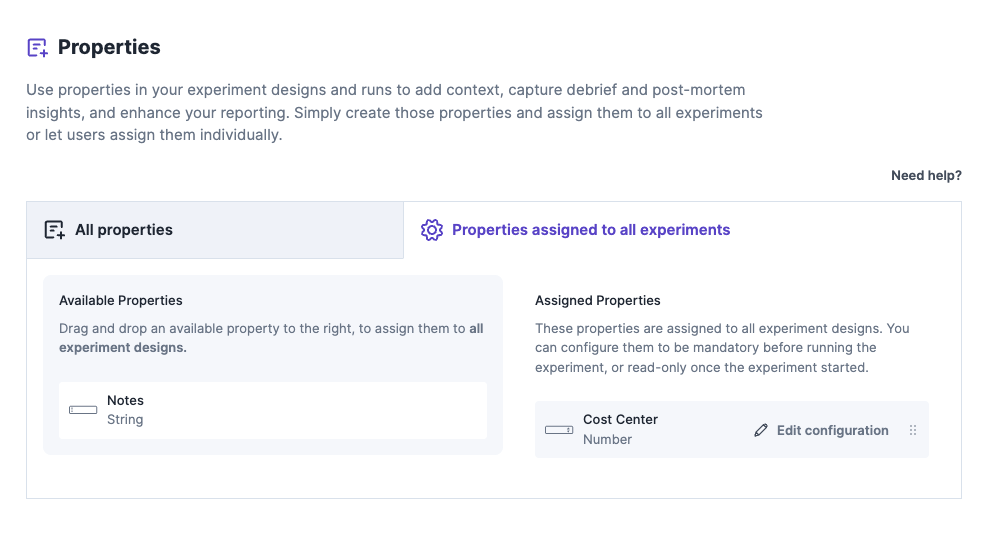
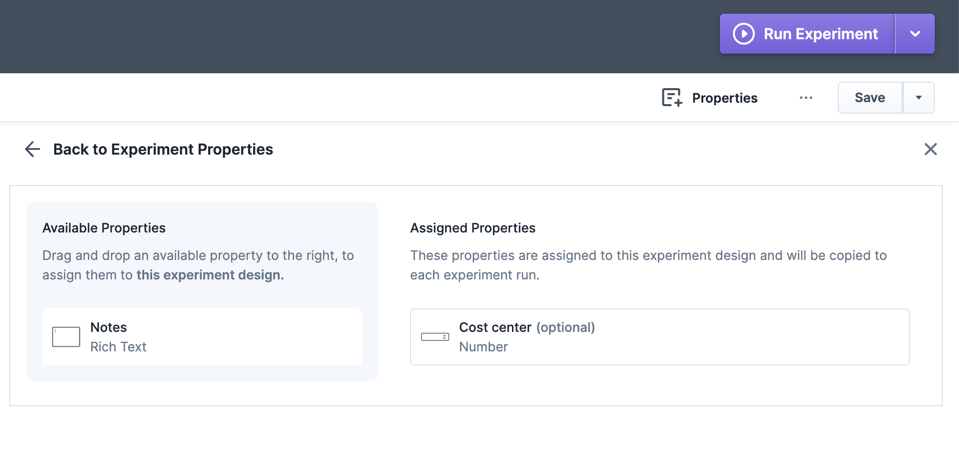
fix: Splitting up docs for properties into managing and using

diff --git a/use-steadybit/experiments/properties/README.md b/use-steadybit/experiments/properties/README.md
@@ -1,97 +1,63 @@
 # Properties
 
-Properties are key-value pairs that can be used to add additional information to your experiments and executions. They can be used to store metadata about the
-experiment, such as the experiment's purpose, the team responsible for it, the outcome or just a note of a specific execution or any other relevant information.
+Properties are key-value pairs that can be used to add additional information to your experiments and runs. They can be used to store metadata about the
+experiment, such as the experiment's purpose, the team responsible for it, the outcome, or just a note of a specific run or any other relevant information.
 
-Properties consist of three concepts:
-
-- Property definitions: The administrator can define, which properties are available in the Steadybit platform. These definitions can be assigned to experiments
-  and executions.
-- Property associations: Associations define the relationship between a property definition and an experiment. They define where the property is visible and
-  editable.
-    - Administrators can assign properties to each experiment in your Steadybit tenant and even mark it as a required property.
-    - Users can assign properties to a single experiments or a single execution they are allowed to edit. This allows users to add additional information to the
-      experiment.
-- Property values: The actual values of the properties that are saved as part of an experiment design and copied to each experiment execution. These values can
-  be updated after the experiment has been run if the association allows so.
+In general, a user can only assign properties to an experiment design or run that have been [defined by an administrator](../../../install-and-configure/manage-properties/README.md#manage-property-definitions).
+Once you - or your administrator - has assigned the property, you can capture values per experiment design or experiment run.
 
 ## Examples
 
-- Adding a note to a single experiment execution
-    - Your administrator defines a property definition called `note` with the datatype `string`.
-    - You can add the property `note` to a single experiment execution you are allowed to edit and fill in a value like "This experiment was great!".
+- Adding a note to a single experiment run
+    - Your administrator has defined a property definition called `note` with the datatype `rich text`.
+    - You can add the property `note` to a single experiment run, you are allowed to edit, and fill out a Markdown value like "This experiment was *really* great!".
 - Adding a mandatory cost center field to each experiment
-    - Your administrator defines a property definition called `costCenter` with the datatype `integer`.
-    - Your administrator assigns the property definition `costCenter` to all experiment design and marks it as required.
-    - You need to fill in the cost center for each experiment you want to run.
+    - Your administrator has defined a property definition called `costCenter` with the datatype `integer`.
+    - Your administrator has assigned the property definition `costCenter` to all experiment designs and marks it as required.
+    - You need to fill out the cost center for each experiment you want to run.
 
-## Property Definitions
+## Assign Properties
 
-Property definitions are the basis for properties in Steadybit.
+Properties that are defined by your administrator, can be assigned to a single experiment design or run by any team member.
+This way, you can add additional context to your experiments, in the experiment design or for a specific run.
+Properties assigned to an experiment design or an experiment run can be removed later on.
+Properties copied from the experiment design to a run cannot be removed later.
 
-A property definition consists of the following fields:
+![Property Assignments in Experiment's 'Manage Properties'](property_associations.png)
 
-- **Name**: The name of the property definition. This is the name that will be shown in the UI.
-- **API name**: The key of the property that will be used in the API. This is a unique identifier for the property definition.
-- **Field Type**: The data type of the property definition. This can be one of the following:
-    - `String`: A text field that can contain any string value.
-    - `List of Strings`: A list of text fields that can contain multiple string values.
-    - `Rich Text`: A string field that can contain Markdown formatted text.
-    - `Boolean`: A checkbox that can be either true or false.
-    - `Date`: A date field that can contain a date value.
-    - `Number`: A number field that can contain an integer value.
-    - `List of Numbers`: A list of number fields that can contain multiple integer values.
-    - `Enumeration`: A dropdown field that can contain a predefined list of values. The values can be defined in the property definition.
-    - `List of Enumerations`: A list of dropdown fields that can contain multiple predefined values. The values can be defined in the property definition.
-    - `Link`: A field that can contain a URL. This can be used to link to external resources.
-    - `List of Links`: A list of URL fields that can contain multiple links.
-- **Property Description**: A description of the property definition. This is optional but recommended to provide additional context for the property.
+A property assignment configuration consists of the following fields:
 
-Property definitions can be created and managed in the settings of the Steadybit platform. Administrators can create new property definitions, edit existing
-ones, and delete them. If an administrator deletes a property definition, all associations and values of this property definition will be removed from all
-experiments. Values in existing executions will not be deleted.
+- **Property Definition Key**: The referenced property definition assigned to the experiment design or run.
+- **Mandatory**: A checkbox indicating whether a value is required or not. If checked, the property must be filled in before the experiment can be run.
+- **Allow editing the value in the experiment run**: A checkbox indicating whether the property can be edited at run-level. If checked,
+  the property can be edited in the run details page.
 
-![Property Definitions in the settings](property_definitions.png)
-![Edit a Property Definition](property_definition_edit.png)
+![Edit a Property Assignment](property_association_edit.png)
 
-## Property Associations
+### API
+Properties can also be assigned using the following API endpoints.
+Check out [Integrate with Steadybit / API](../../../integrate-with-steadybit/api/api.md) how to access the API.
 
-An administrator can assign property definitions to each experiment design in your Steadybit tenant. He can also mark a property as required, which means that
-the property must be filled in before the experiment can be run. This allows administrators to enforce certain properties for all experiments in the tenant.
-The association also defines, whether the property is editable after the execution has been started or if it should be read-only. This can be done in the
-settings section of the Steadybit platform.
+- [Assign properties to an experiment design](https://platform.steadybit.com/api/swagger/swagger-ui/index.html?configUrl=/api/spec/swagger-config#/Experiment%20Designs/createOrUpdateExperiment)
+- [Assign properties to an experiment run](https://platform.steadybit.com/api/swagger/swagger-ui/index.html?configUrl=/api/spec/swagger-config#/Experiment%20Executions/updateExecutionProperties)
 
-Users can also assign properties to a single experiment design or execution they are allowed to edit. This allows users to add additional information to their
-experiments. This can be done in the experiment editor or in the execution details page. Properties added to an execution after the execution has been started
-can always be edited and can also be removed later. Properties that have been present in the experiment design and copied to the execution can only be
-edited if the association allows it. If the association read-only, the property can only be viewed and not edited.
 
-A property association consists of the following fields:
-
-- **Property Definition Key**: The property definition that is associated with the experiment design or execution.
-- **Mandatory**: A checkbox that indicates whether the property is required or not. If checked, the property must be filled in before the experiment can be run.
-- **Allow edits after the experiment has started**: A checkbox that indicates whether the property can be edited after the experiment has started. If checked,
-  the property can be edited in the execution details page.
-
-![Property Associations in the settings](property_associations.png)
-![Edit a Property Association](property_association_edit.png)
 
 ## Property Values
 
 Property values are the actual values of the properties that are saved as part of an experiment design and copied to each experiment
-execution. [Variables](../variables.md) are fully supported for the input fields of all properties. (including overrides for single executions or via schedules).
+run. [Variables](../variables.md) are fully supported for the input fields of all properties. (including overrides for single runs or via schedules).
 
 ![Properties in the experiment editor](properties_experiment_design.png)
-![Properties in the execution view](properties_experiment_execution.png)
+![Properties in the run view](properties_experiment_run.png)
 
-## Properties via API
+### API
 
-Properties can also be managed and used by the following API endpoints.
+Properties' values can also be read and edited using the following API endpoints.
 Check out [Integrate with Steadybit / API](../../../integrate-with-steadybit/api/api.md) how to access the API.
 
-- [Manage property definitions and associations](https://platform.dev.steadybit.com/api/swagger/swagger-ui/index.html?configUrl=/api/spec/swagger-config#/Properties)
-- [Update the properties of a experiment design](https://platform.dev.steadybit.com/api/swagger/swagger-ui/index.html?configUrl=/api/spec/swagger-config#/Experiment%20Designs/createOrUpdateExperiment)
-- [Get the properties of a experiment execution](https://platform.dev.steadybit.com/api/swagger/swagger-ui/index.html?configUrl=/api/spec/swagger-config#/Experiment%20Executions/getExperimentExecution)
-- [Update properties of a experiment execution after it has completed](https://platform.dev.steadybit.com/api/swagger/swagger-ui/index.html?configUrl=/api/spec/swagger-config#/Experiment%20Executions/updateExecutionProperties)
+- [Update the properties of an experiment design](https://platform.steadybit.com/api/swagger/swagger-ui/index.html?configUrl=/api/spec/swagger-config#/Experiment%20Designs/createOrUpdateExperiment)
+- [Get the properties of an experiment run](https://platform.steadybit.com/api/swagger/swagger-ui/index.html?configUrl=/api/spec/swagger-config#/Experiment%20Executions/getExperimentExecution)
+- [Update properties of an experiment run after it has completed](https://platform.steadybit.com/api/swagger/swagger-ui/index.html?configUrl=/api/spec/swagger-config#/Experiment%20Executions/updateExecutionProperties)
 
 

diff --git a/install-and-configure/manage-properties/README.md b/install-and-configure/manage-properties/README.md
@@ -1,0 +1,97 @@
+# Manage Properties
+
+Properties are key-value pairs that can be used to add additional information to your experiments and runs. They can be used to store metadata about the
+experiment, such as the experiment's purpose, the team responsible for it, the outcome, or just a note of a specific run or any other relevant information.
+
+Properties consist of three parts:
+
+- Property definitions: The administrator can define which properties are available in the Steadybit platform. These definitions can be assigned to experiments
+  and runs.
+- Property assignments: Assignments define the relationship between a property definition and an experiment. They define where the property is visible and
+  editable.
+    - Administrators can assign properties to each experiment in your Steadybit tenant and even mark it as a required property.
+    - Users can assign properties to a single experiment or a single run that they are allowed to edit. This allows users to add additional information to the
+      experiment. More details can be found in the [experiment's section of property assignments](../../use-steadybit/experiments/properties/README.md#assign-properties).
+- Property values: The actual values of the properties. Values saved as part of an experiment design are copied to each experiment run. These values can
+  be updated after the experiment has been run, if the assignment configuration allows so. Learn more in the [experiment's section of properties](../../use-steadybit/experiments/properties/README.md).
+
+## Examples
+
+- Adding a note to a single experiment run
+    - Your administrator defines a property definition called `note` with the datatype `rich text`.
+    - You can add the property `note` to a single experiment run you are allowed to edit and fill out a Markdown value like "This experiment was *really* great!".
+- Adding a mandatory cost center field to each experiment
+    - Your administrator defines a property definition called `costCenter` with the datatype `integer`.
+    - Your administrator assigns the property definition `costCenter` to all experiment designs and marks it as required.
+    - You need to fill out the cost center for each experiment you want to run.
+
+## Manage Property Definitions
+
+Property definitions are the basis for properties in Steadybit.
+
+A property definition consists of the following fields:
+
+- **Name**: The name of the property definition. This is the name that will be shown in the UI.
+- **API name**: The key of the property that will be used in the API. This is a unique identifier for the property definition.
+- **Field Type**: The data type of the property definition. This can be one of the following:
+    - `String`: A text field containing any string value.
+    - `List of Strings`: A list of text fields containing multiple string values.
+    - `Rich Text`: A string field containing Markdown-formatted text.
+    - `Boolean`: A checkbox that can be either true or false.
+    - `Date`: A date field containing a date value.
+    - `Number`: A number field containing an integer value.
+    - `List of Numbers`: A list of number fields containing multiple integer values.
+    - `Enumeration`: A dropdown field containing a predefined list of values. The values can be defined in the property definition.
+    - `List of Enumerations`: A list of dropdown fields containing multiple predefined values. The values can be defined in the property definition.
+    - `Link`: A field containing a URL. This can be used to link to external resources.
+    - `List of Links`: A list of URL fields containing multiple links.
+- **Property Description**: A description of the property definition. This is optional but recommended to provide additional context for the property.
+
+Property definitions can be created and managed in the settings of the Steadybit platform. Administrators can create new property definitions, edit existing
+ones, and delete them. If an administrator deletes a property definition, all assignments and values of this property definition will be removed from all
+experiment designs and templates. Values in existing runs will not be deleted.
+
+![Property Definitions in the settings](property_definitions.png)
+![Edit a Property Definition](property_definition_edit.png)
+
+Properties can also be managed and assigned using the following API endpoint.
+Check out [Integrate with Steadybit / API](../../../integrate-with-steadybit/api/api.md) how to access the API.
+
+- [Manage property definitions](https://platform.steadybit.com/api/swagger/swagger-ui/index.html?configUrl=/api/spec/swagger-config#/Properties)
+
+## Assign Properties
+
+An administrator can assign property definitions to each experiment design. He can also mark a property as required, which means that the property must be filled
+in before the experiment can be run. This allows administrators to enforce certain properties for all experiments in the tenant.
+The assignment also defines whether the property is editable after the run has been started or if it should be read-only. This can be done in the
+settings section of the Steadybit platform.
+
+A property assignment configuration consists of the following fields:
+
+- **Property Definition Key**: The referenced property definition assigned to the experiment design or run.
+- **Mandatory**: A checkbox that indicates whether a value is required or not. If checked, the property must be filled in before the experiment can be run.
+- **Allow editing the value in the experiment run**: A checkbox that indicates whether the property can be edited at run-level. If checked,
+  the property can be edited in the run details page.
+
+![Property Assignments in the settings](property_associations.png)
+![Edit a Property Assignment](property_association_edit.png)
+
+### API
+Properties can also be managed and assigned using the following API endpoint.
+Check out [Integrate with Steadybit / API](../../../integrate-with-steadybit/api/api.md) how to access the API.
+
+- [Manage property assignments](https://platform.steadybit.com/api/swagger/swagger-ui/index.html?configUrl=/api/spec/swagger-config#/Properties)
+
+### Assign Properties Individually
+
+Additionally, users can assign properties to a single experiment design or run, if they are a member of the team. More details can be found in the [experiment's section of property assignments](../../use-steadybit/experiments/properties/README.md#assign-properties).
+
+
+## Properties in Experiments
+
+Properties can be used in experiment designs and runs:
+
+* A **property definition** can be assigned to an experiment design or run (if not assigned globally)
+* An **assigned property** can save values per experiment design or run
+
+Learn more in the [experiment's section of properties](../../use-steadybit/experiments/properties/README.md).

diff --git a/install-and-configure/manage-experiment-templates/README.md b/install-and-configure/manage-experiment-templates/README.md
@@ -22,7 +22,23 @@ An experiment template consists of three parts: the _experiment_ created when us
 
 ![Template's experiment editor](template-editor-experiment.png)
 
-To define the experiment of the template, you benefit from a similar experiment editor as when creating an experiment. When designing the experiment of the template, all targets are resolved to the `Global` environment. However, when using a template to create an experiment, the user can select the desired environment, and all target and environment variables are evaluated against the selected environment. This way, it is still easy to define a template and safe for teams to use one. To make the experiment adaptable to different contexts, you can reference template placeholders (see below) and [environment variables](../../use-steadybit/experiments/design.md#basic-elements) in the experiment's steps (e.g., target query, parameters, and step labels), hypothesis, and experiment name.
+To define the experiment of the template, you benefit from a similar experiment editor as when creating an experiment.
+
+#### Environment
+
+When designing the experiment of the template, all targets are resolved to the `Global` environment.
+However, when using a template to create an experiment, the user can select the desired environment, and all target and environment variables are evaluated against the selected environment.
+This way, it is still easy to define a template and safe for teams to use one.
+
+#### Templating
+To make the experiment adaptable to different contexts, you can reference [template placeholders (see below)](#template-placeholder) and [environment variables](../../use-steadybit/experiments/design.md#basic-elements) in the experiment's steps (e.g., target query, parameters, and step labels), hypothesis, and experiment name.
+
+#### Properties
+Similar to experiments, an experiment in an experiment template can have properties assigned.
+Properties' values can be hard-coded in the experiment or can reference [template placeholders (see below)](#template-placeholder) and [environment variables](../../use-steadybit/experiments/design.md#basic-elements) to capture these when [using the experiment](../../use-steadybit/experiments/templates/README.md).
+Templates can only reference defined property definitions.
+
+Learn more on [managing properties](../../install-and-configure/manage-properties/README.md) and [using properties in experiments](../../use-steadybit/experiments/properties/README.md).
 
 ### Template Placeholder
 
